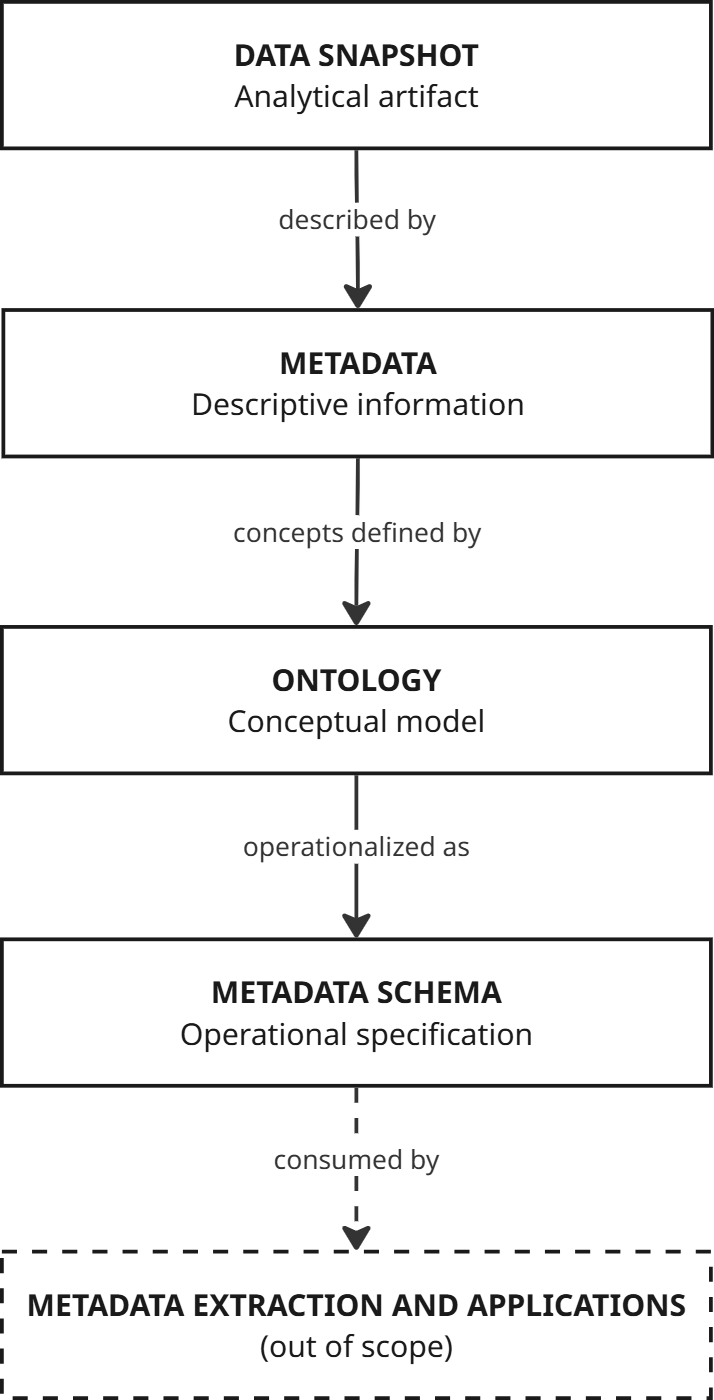
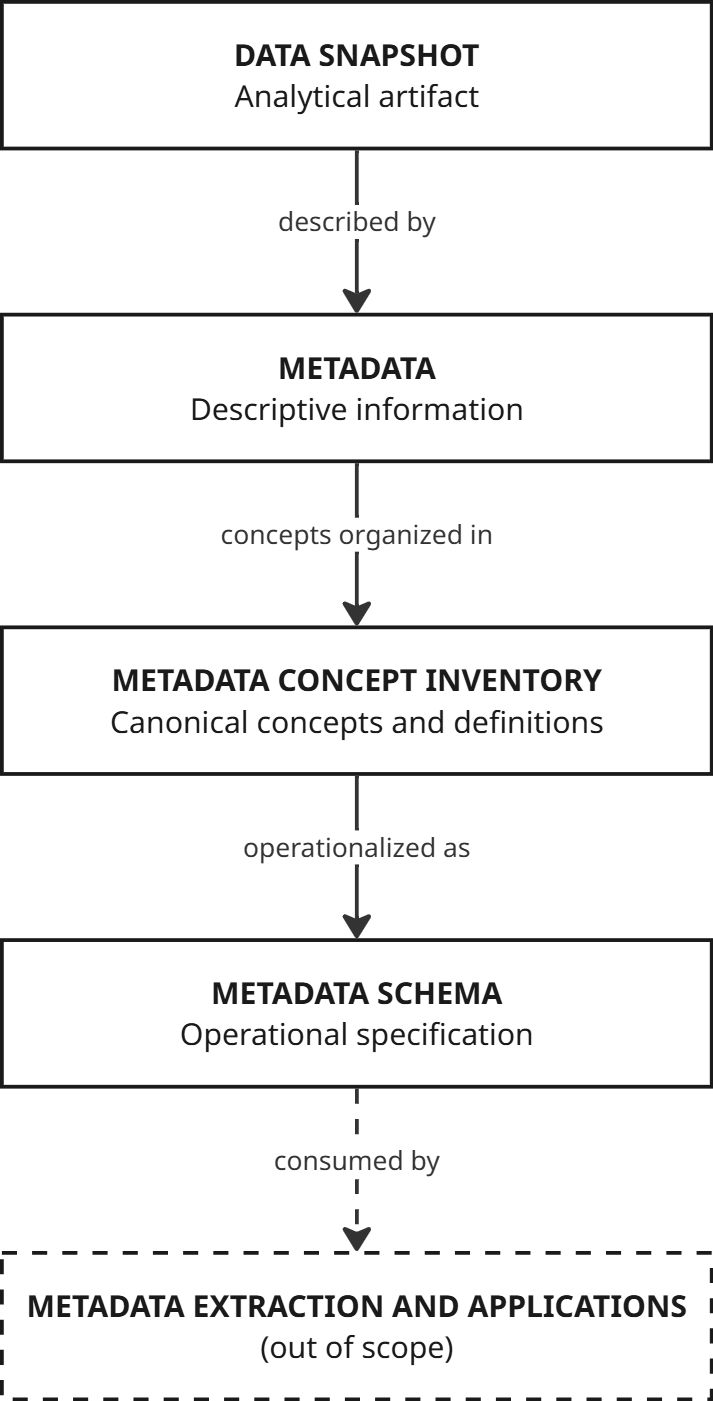
Update figures

diff --git a/manuscript/main.tex b/manuscript/main.tex
@@ -162,7 +162,7 @@ Figure~\ref{fig:conceptual_relationship} summarizes the relationships among thes
 \begin{figure}[!ht]
     \centering
     \includegraphics[width=0.35\linewidth]{data/conceptual_hierarchy.png}
-    \caption{Relationship between data snapshots, metadata, the intermediate concept inventory, and the metadata schema. Metadata extraction and downstream applications are shown separately because they assume that an operational metadata schema already exists. [TODO: Replace the ontology node with the metadata concept inventory and show the metadata schema as its operationalization.]}
+    \caption{Relationship between data snapshots, metadata, the intermediate concept inventory, and the metadata schema. Metadata extraction and downstream applications are shown separately because they assume that an operational metadata schema already exists.}
     \label{fig:conceptual_relationship}
 \end{figure}
 
@@ -392,7 +392,7 @@ Metadata discovery and canonical concept synthesis used GPT-5.5, while concept c
 \begin{figure}[!ht]
     \centering
     \includegraphics[width=0.75\textwidth]{data/case_study_execution.png}
-    \caption{The development workflow transforms the 210 development snapshots into the Data Snapshot Metadata Schema through explicit intermediate knowledge artifacts and evaluates the schema against held-out snapshots. Colors distinguish LLM-supported, deterministic, and human-guided transformations. [TODO: Rename the ontology stages and artifacts using the metadata-concept-inventory terminology, and add schema validation after metadata schema design and specification.]}
+    \caption{The development workflow transforms the 210 development snapshots into the Data Snapshot Metadata Schema through explicit intermediate knowledge artifacts and evaluates the schema against held-out snapshots. Colors distinguish LLM-supported, deterministic, and human-guided transformations.}
     \label{fig:artifact_evolution}
 \end{figure}
 
